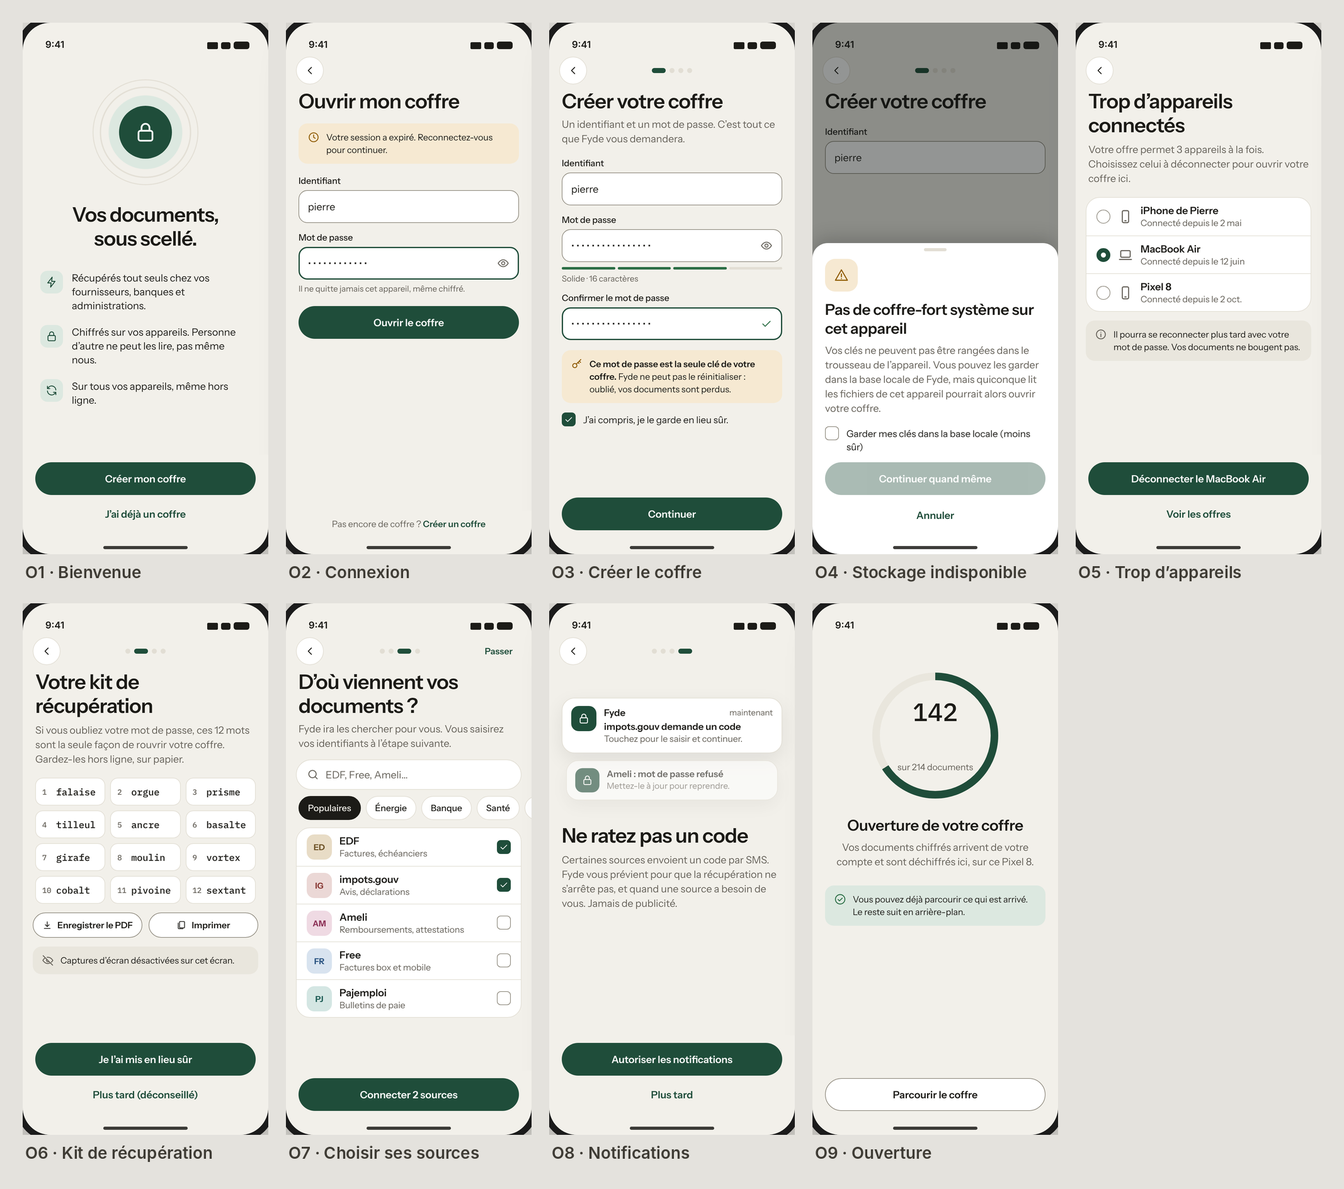
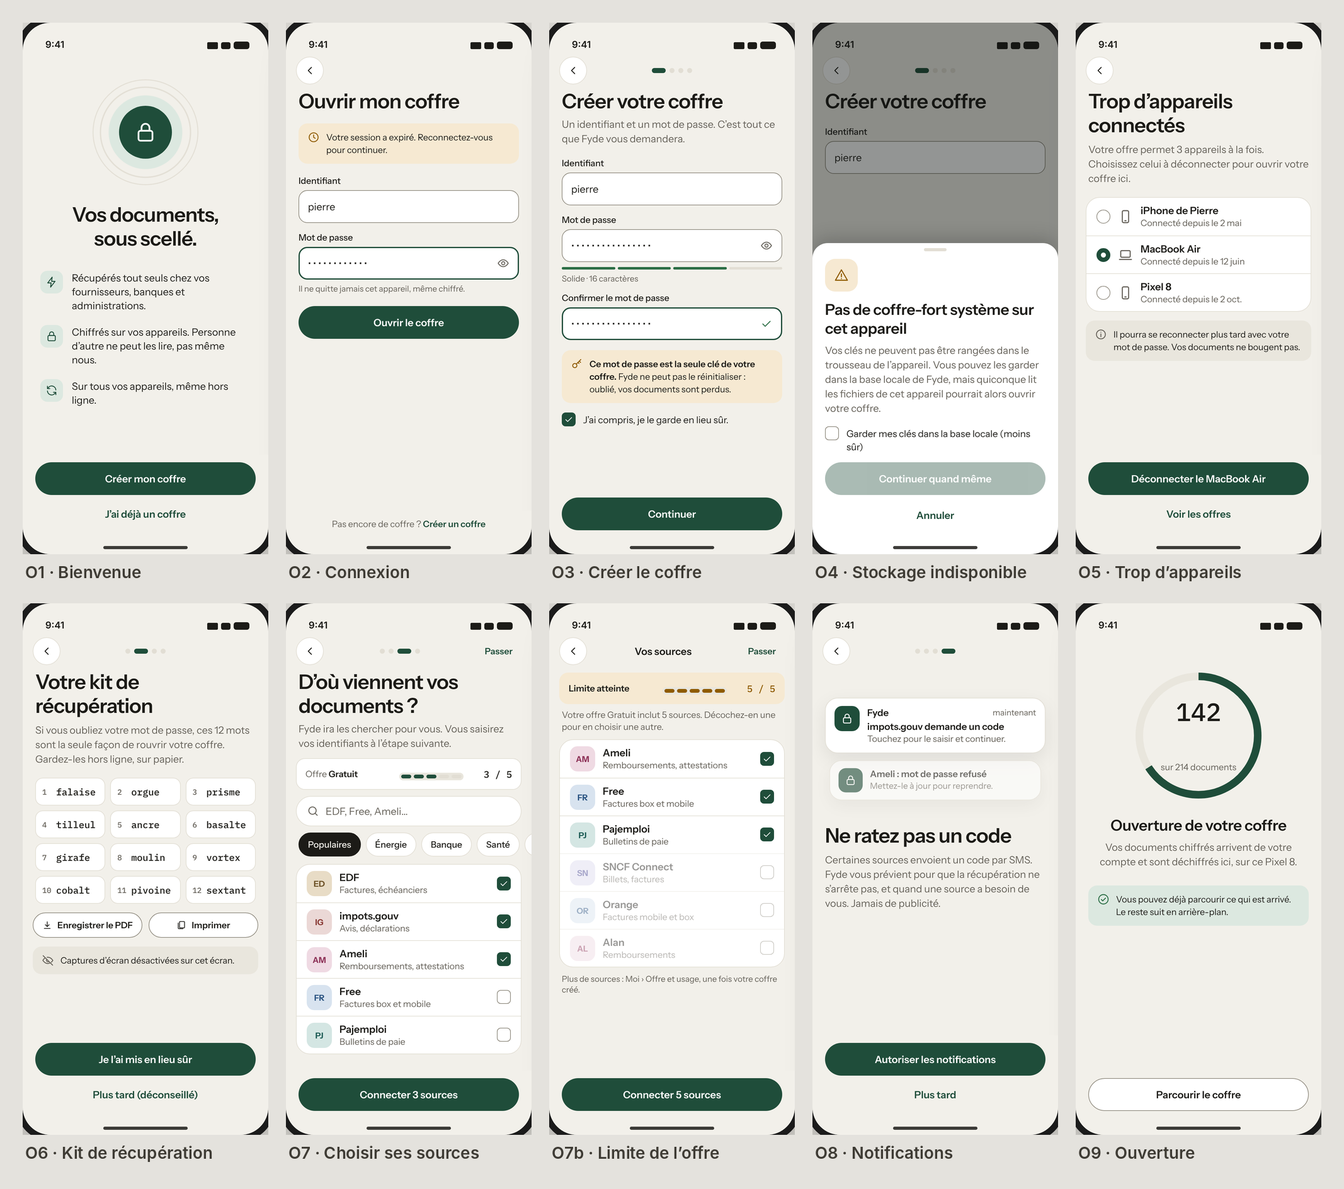
Limit source selection to the plan with a quota counter (O7b, DO7h)
The source picker (O7, DO7) shows a PlanQuota row: the plan, one segment
per allowed source and n / max, from getUsage (enabled_scripts + the
selection against max_scripts). At the limit it turns warning, unticked
sources dim and stop taking a tick, and a note explains how to swap or
upgrade later. On phones the counter stays pinned once the title scrolls
away (O7b). Documented as a pattern and component in the design system.

Claude-Session: https://claude.ai/code/session_01NXG1oymEkKvPrzTrPTtgGc

diff --git a/design/assets/mockups/desktop-auth.html b/design/assets/mockups/desktop-auth.html
@@ -251,10 +251,29 @@
  </div><p class="foot2"><svg class="ic sm"><use href="#i-lock"/></svg>Votre mot de passe ne quitte jamais cet ordinateur.</p></div><div class="pane"><button class="circ tl" aria-label="Retour"><svg class="ic"><use href="#i-chev-l"/></svg></button><p class="tr"><b style="color:var(--primary);font-weight:600">Passer</b></p><div class="form wide">
  <p class="h1">D’où viennent vos documents ?</p>
  <p class="body" style="color:var(--muted);margin-top:6px">Fyde ira les chercher pour vous. Vous saisirez vos identifiants à l’étape suivante.</p>
- <div class="search" style="margin:16px 0 0"><svg class="ic"><use href="#i-search"/></svg>EDF, Free, Ameli…</div>
+ <div style="margin-top:16px"><div class="quota" role="status" aria-label="3 sources choisies sur 5"><span class="q">Votre offre <b>Gratuit</b> inclut 5 sources</span><span class="seg" aria-hidden="true"><i class="on"></i><i class="on"></i><i class="on"></i><i></i><i></i></span><span class="n">3 / 5</span></div></div>
+ <div class="search" style="margin:12px 0 0"><svg class="ic"><use href="#i-search"/></svg>EDF, Free, Ameli…</div>
  <div class="chips" style="padding:12px 0 0"><span class="pc on">Populaires</span><span class="pc">Énergie</span><span class="pc">Banque</span><span class="pc">Santé</span><span class="pc">Impôts</span><span class="pc">Transport</span></div>
  <div class="srcgrid"><div class="srcc on"><span class="tile" style="--cbg:var(--c-home);--ci:var(--c-home-i)">ED</span><div class="grow"><p class="t1">EDF</p><p class="t2 trunc">Factures, échéanciers</p></div><span class="box on"><svg class="ic sm"><use href="#i-check"/></svg></span></div><div class="srcc on"><span class="tile" style="--cbg:var(--c-tax);--ci:var(--c-tax-i)">IG</span><div class="grow"><p class="t1">impots.gouv</p><p class="t2 trunc">Avis, déclarations</p></div><span class="box on"><svg class="ic sm"><use href="#i-check"/></svg></span></div><div class="srcc on"><span class="tile" style="--cbg:var(--c-health);--ci:var(--c-health-i)">AM</span><div class="grow"><p class="t1">Ameli</p><p class="t2 trunc">Remboursements, attestations</p></div><span class="box on"><svg class="ic sm"><use href="#i-check"/></svg></span></div><div class="srcc"><span class="tile" style="--cbg:var(--c-tel);--ci:var(--c-tel-i)">FR</span><div class="grow"><p class="t1">Free</p><p class="t2 trunc">Factures box et mobile</p></div><span class="box"></span></div><div class="srcc"><span class="tile" style="--cbg:var(--c-work);--ci:var(--c-work-i)">PJ</span><div class="grow"><p class="t1">Pajemploi</p><p class="t2 trunc">Bulletins de paie</p></div><span class="box"></span></div><div class="srcc"><span class="tile" style="--cbg:var(--c-trans);--ci:var(--c-trans-i)">SN</span><div class="grow"><p class="t1">SNCF Connect</p><p class="t2 trunc">Billets, factures</p></div><span class="box"></span></div><div class="srcc"><span class="tile" style="--cbg:var(--c-tel);--ci:var(--c-tel-i)">OR</span><div class="grow"><p class="t1">Orange</p><p class="t2 trunc">Factures mobile et box</p></div><span class="box"></span></div><div class="srcc"><span class="tile" style="--cbg:var(--c-health);--ci:var(--c-health-i)">AL</span><div class="grow"><p class="t1">Alan</p><p class="t2 trunc">Remboursements</p></div><span class="box"></span></div></div>
  <button class="pbtn f w" style="margin-top:20px">Connecter 3 sources</button>
+</div></div></div>
+</div></div>
+<div class="board"><p class="caption-board">DO7h · Limite de l’offre atteinte</p>
+<div class="desktop fyde" data-shot="DO7h-limite-offre">
+ <div class="chrome"><i style="background:#ee6a5f"></i><i style="background:#f5be4f"></i><i style="background:#62c554"></i><b>Fyde</b></div>
+ <div class="split"><div class="brand"><div class="logo"><span><svg class="ic sm"><use href="#i-lock"/></svg></span>Fyde</div><div class="mid">
+ <p class="btitle" style="margin-top:0">Créer votre coffre</p>
+ <p style="font:400 16px/23px var(--font);color:rgba(255,255,255,.8);margin-top:10px">Quatre étapes, environ trois minutes.</p>
+ <div class="steps"><div class="stp done"><span class="n"><svg class="ic sm"><use href="#i-check"/></svg></span><div><p>Votre compte</p><small>Identifiant et mot de passe</small></div></div><div class="stp done"><span class="n"><svg class="ic sm"><use href="#i-check"/></svg></span><div><p>Kit de récupération</p><small>12 mots, votre seule issue</small></div></div><div class="stp now"><span class="n">3</span><div><p>Vos sources</p><small>D’où viennent vos documents</small></div></div><div class="stp todo"><span class="n">4</span><div><p>Notifications</p><small>Pour ne rater aucun code</small></div></div></div>
+ </div><p class="foot2"><svg class="ic sm"><use href="#i-lock"/></svg>Votre mot de passe ne quitte jamais cet ordinateur.</p></div><div class="pane"><button class="circ tl" aria-label="Retour"><svg class="ic"><use href="#i-chev-l"/></svg></button><p class="tr"><b style="color:var(--primary);font-weight:600">Passer</b></p><div class="form wide">
+ <p class="h1">D’où viennent vos documents ?</p>
+ <p class="body" style="color:var(--muted);margin-top:6px">Fyde ira les chercher pour vous. Vous saisirez vos identifiants à l’étape suivante.</p>
+ <div style="margin-top:16px"><div class="quota full" role="status" aria-label="5 sources choisies sur 5"><span class="q"><b>Limite de l’offre Gratuit atteinte</b></span><span class="seg" aria-hidden="true"><i class="on"></i><i class="on"></i><i class="on"></i><i class="on"></i><i class="on"></i></span><span class="n">5 / 5</span></div></div>
+ <div class="search" style="margin:12px 0 0"><svg class="ic"><use href="#i-search"/></svg>EDF, Free, Ameli…</div>
+ <div class="chips" style="padding:12px 0 0"><span class="pc on">Populaires</span><span class="pc">Énergie</span><span class="pc">Banque</span><span class="pc">Santé</span><span class="pc">Impôts</span><span class="pc">Transport</span></div>
+ <div class="srcgrid"><div class="srcc on"><span class="tile" style="--cbg:var(--c-home);--ci:var(--c-home-i)">ED</span><div class="grow"><p class="t1">EDF</p><p class="t2 trunc">Factures, échéanciers</p></div><span class="box on"><svg class="ic sm"><use href="#i-check"/></svg></span></div><div class="srcc on"><span class="tile" style="--cbg:var(--c-tax);--ci:var(--c-tax-i)">IG</span><div class="grow"><p class="t1">impots.gouv</p><p class="t2 trunc">Avis, déclarations</p></div><span class="box on"><svg class="ic sm"><use href="#i-check"/></svg></span></div><div class="srcc on"><span class="tile" style="--cbg:var(--c-health);--ci:var(--c-health-i)">AM</span><div class="grow"><p class="t1">Ameli</p><p class="t2 trunc">Remboursements, attestations</p></div><span class="box on"><svg class="ic sm"><use href="#i-check"/></svg></span></div><div class="srcc on"><span class="tile" style="--cbg:var(--c-tel);--ci:var(--c-tel-i)">FR</span><div class="grow"><p class="t1">Free</p><p class="t2 trunc">Factures box et mobile</p></div><span class="box on"><svg class="ic sm"><use href="#i-check"/></svg></span></div><div class="srcc on"><span class="tile" style="--cbg:var(--c-work);--ci:var(--c-work-i)">PJ</span><div class="grow"><p class="t1">Pajemploi</p><p class="t2 trunc">Bulletins de paie</p></div><span class="box on"><svg class="ic sm"><use href="#i-check"/></svg></span></div><div class="srcc off" aria-disabled="true"><span class="tile" style="--cbg:var(--c-trans);--ci:var(--c-trans-i)">SN</span><div class="grow"><p class="t1">SNCF Connect</p><p class="t2 trunc">Billets, factures</p></div><span class="box"></span></div><div class="srcc off" aria-disabled="true"><span class="tile" style="--cbg:var(--c-tel);--ci:var(--c-tel-i)">OR</span><div class="grow"><p class="t1">Orange</p><p class="t2 trunc">Factures mobile et box</p></div><span class="box"></span></div><div class="srcc off" aria-disabled="true"><span class="tile" style="--cbg:var(--c-health);--ci:var(--c-health-i)">AL</span><div class="grow"><p class="t1">Alan</p><p class="t2 trunc">Remboursements</p></div><span class="box"></span></div></div>
+ <div class="note warn" style="margin:12px 0 0"><svg class="ic"><use href="#i-info"/></svg><span>Décochez une source pour en choisir une autre. Vous pourrez passer à une offre supérieure plus tard, depuis Moi › Offre et usage.</span></div>
+ <button class="pbtn f w" style="margin-top:16px">Connecter 5 sources</button>
 </div></div></div>
 </div></div>
 <div class="board"><p class="caption-board">DO8 · Notifications</p>

diff --git a/design/assets/mockups/onboarding.html b/design/assets/mockups/onboarding.html
@@ -116,16 +116,36 @@
  <div class="navb"><button class="circ"><svg class="ic"><use href="#i-chev-l"/></svg></button><div class="dots3"><i></i><i></i><i class="on"></i><i></i></div><button class="pbtn t sm">Passer</button></div>
  <p class="h1 pad">D’où viennent vos documents ?</p>
  <p class="body pad" style="color:var(--muted);margin-top:6px">Fyde ira les chercher pour vous. Vous saisirez vos identifiants à l’étape suivante.</p>
- <div class="search" style="margin-top:14px"><svg class="ic"><use href="#i-search"/></svg>EDF, Free, Ameli…</div>
+ <div style="margin:12px 16px 0"><div class="quota" role="status" aria-label="3 sources choisies sur 5"><span class="q">Offre <b>Gratuit</b></span><span class="seg" aria-hidden="true"><i class="on"></i><i class="on"></i><i class="on"></i><i></i><i></i></span><span class="n">3 / 5</span></div></div>
+ <div class="search" style="margin-top:10px"><svg class="ic"><use href="#i-search"/></svg>EDF, Free, Ameli…</div>
  <div class="chips"><span class="pc on">Populaires</span><span class="pc">Énergie</span><span class="pc">Banque</span><span class="pc">Santé</span><span class="pc">Impôts</span></div>
  <div class="group" style="margin-top:10px">
   <div class="it"><span class="tile" style="--cbg:var(--c-home);--ci:var(--c-home-i)">ED</span><div class="grow"><p class="t1">EDF</p><p class="t2">Factures, échéanciers</p></div><span class="box on"><svg class="ic sm"><use href="#i-check"/></svg></span></div>
   <div class="it"><span class="tile" style="--cbg:var(--c-tax);--ci:var(--c-tax-i)">IG</span><div class="grow"><p class="t1">impots.gouv</p><p class="t2">Avis, déclarations</p></div><span class="box on"><svg class="ic sm"><use href="#i-check"/></svg></span></div>
-  <div class="it"><span class="tile" style="--cbg:var(--c-health);--ci:var(--c-health-i)">AM</span><div class="grow"><p class="t1">Ameli</p><p class="t2">Remboursements, attestations</p></div><span class="box"></span></div>
+  <div class="it"><span class="tile" style="--cbg:var(--c-health);--ci:var(--c-health-i)">AM</span><div class="grow"><p class="t1">Ameli</p><p class="t2">Remboursements, attestations</p></div><span class="box on"><svg class="ic sm"><use href="#i-check"/></svg></span></div>
   <div class="it"><span class="tile" style="--cbg:var(--c-tel);--ci:var(--c-tel-i)">FR</span><div class="grow"><p class="t1">Free</p><p class="t2">Factures box et mobile</p></div><span class="box"></span></div>
   <div class="it"><span class="tile" style="--cbg:var(--c-work);--ci:var(--c-work-i)">PJ</span><div class="grow"><p class="t1">Pajemploi</p><p class="t2">Bulletins de paie</p></div><span class="box"></span></div>
  </div>
- <div class="foot"><button class="pbtn f w">Connecter 2 sources</button></div>
+ <div class="foot"><button class="pbtn f w">Connecter 3 sources</button></div>
+ <!--HB-->
+</div></div>
+
+<div class="board"><p class="caption-board">O7b · Limite de l’offre atteinte</p>
+<div class="phone fyde" data-shot="O7b-limite-offre">
+ <!--SB-->
+ <div class="navb"><button class="circ" aria-label="Retour"><svg class="ic"><use href="#i-chev-l"/></svg></button><span class="ttl">Vos sources</span><button class="pbtn t sm">Passer</button></div>
+ <div style="margin:4px 16px 0"><div class="quota full" role="status" aria-label="5 sources choisies sur 5"><span class="q"><b>Limite atteinte</b></span><span class="seg" aria-hidden="true"><i class="on"></i><i class="on"></i><i class="on"></i><i class="on"></i><i class="on"></i></span><span class="n">5 / 5</span></div></div>
+ <p class="t2" style="padding:8px 20px 10px">Votre offre Gratuit inclut 5 sources. Décochez-en une pour en choisir une autre.</p>
+ <div class="group">
+  <div class="it"><span class="tile" style="--cbg:var(--c-health);--ci:var(--c-health-i)">AM</span><div class="grow"><p class="t1">Ameli</p><p class="t2">Remboursements, attestations</p></div><span class="box on"><svg class="ic sm"><use href="#i-check"/></svg></span></div>
+  <div class="it"><span class="tile" style="--cbg:var(--c-tel);--ci:var(--c-tel-i)">FR</span><div class="grow"><p class="t1">Free</p><p class="t2">Factures box et mobile</p></div><span class="box on"><svg class="ic sm"><use href="#i-check"/></svg></span></div>
+  <div class="it"><span class="tile" style="--cbg:var(--c-work);--ci:var(--c-work-i)">PJ</span><div class="grow"><p class="t1">Pajemploi</p><p class="t2">Bulletins de paie</p></div><span class="box on"><svg class="ic sm"><use href="#i-check"/></svg></span></div>
+  <div class="it off" aria-disabled="true"><span class="tile" style="--cbg:var(--c-trans);--ci:var(--c-trans-i)">SN</span><div class="grow"><p class="t1">SNCF Connect</p><p class="t2">Billets, factures</p></div><span class="box"></span></div>
+  <div class="it off" aria-disabled="true"><span class="tile" style="--cbg:var(--c-tel);--ci:var(--c-tel-i)">OR</span><div class="grow"><p class="t1">Orange</p><p class="t2">Factures mobile et box</p></div><span class="box"></span></div>
+  <div class="it off" aria-disabled="true"><span class="tile" style="--cbg:var(--c-health);--ci:var(--c-health-i)">AL</span><div class="grow"><p class="t1">Alan</p><p class="t2">Remboursements</p></div><span class="box"></span></div>
+ </div>
+ <p class="t3" style="padding:10px 20px 0">Plus de sources : Moi › Offre et usage, une fois votre coffre créé.</p>
+ <div class="foot"><button class="pbtn f w">Connecter 5 sources</button></div>
  <!--HB-->
 </div></div>
 

diff --git a/design/assets/mockups/tokens.css b/design/assets/mockups/tokens.css
@@ -138,3 +138,16 @@
 .st.now .dot{border:2px solid var(--warn)}
 .st.idle{color:var(--muted)}
 .kbd{font:500 12px "Plex Mono";color:var(--muted);border:1px solid var(--border);border-radius:4px;padding:1px 6px;background:var(--bg)}
+
+/* plan quota counter (source picker) */
+.quota{display:flex;align-items:center;gap:12px;padding:10px 14px;border-radius:14px;background:var(--surface);border:1px solid var(--border)}
+.quota .q{flex:1;min-width:0;font:400 14px/19px var(--font);color:var(--muted)}
+.quota .q b{color:var(--text);font-weight:600}
+.quota .n{font:600 15px "Plex Mono";font-feature-settings:"tnum";white-space:nowrap}
+.quota .seg{display:flex;gap:4px;flex:none}
+.quota .seg i{width:16px;height:6px;border-radius:3px;background:var(--border)}
+.quota .seg i.on{background:var(--primary)}
+.quota.full{background:var(--warnwash);border-color:var(--warnwash)}
+.quota.full .seg i.on{background:var(--warn)}
+.quota.full .n{color:var(--warn)}
+.off{opacity:.45}

diff --git a/design/assets/mockups/sheets.py b/design/assets/mockups/sheets.py
@@ -17,7 +17,7 @@ OUT.mkdir(exist_ok=True)
 LABELS = {
     "O1": "Bienvenue", "O2": "Connexion", "O3": "Créer le coffre", "O4": "Stockage indisponible",
     "O5": "Trop d’appareils", "O6": "Kit de récupération", "O7": "Choisir ses sources", "O8": "Notifications",
-    "O9": "Ouverture", "V1": "Coffre", "V2": "Coffre en remplissage", "V3": "Catégorie", "V4": "Recherche",
+    "O7b": "Limite de l’offre", "O9": "Ouverture", "V1": "Coffre", "V2": "Coffre en remplissage", "V3": "Catégorie", "V4": "Recherche",
     "V5": "Résultats", "V6": "Document", "V7": "Lecteur", "V8": "Actions", "V9": "Reclasser",
     "V10": "Cartes par type", "V11": "Coffre sombre", "K1": "Scanner", "K2": "Vérifier le scan",
     "K3": "Depuis une autre app", "K4": "Ajout en cours", "R1": "Arrivées", "R2": "Tout est rangé",
@@ -30,7 +30,7 @@ LABELS = {
     "DO4b": "Trousseau absent (création)", "DO5": "Trop d’appareils", "DO6": "Kit de récupération",
     "DO7": "Choisir ses sources", "DO7b": "Connecter une source", "DO7c": "Récupération en cours",
     "DO7d": "Code reçu par SMS", "DO7e": "Code reçu par e-mail", "DO7f": "Mot de passe refusé",
-    "DO7g": "Sources connectées", "DO8": "Notifications", "DO9": "Ouverture",
+    "DO7g": "Sources connectées", "DO7h": "Limite de l’offre", "DO8": "Notifications", "DO9": "Ouverture",
     "D2": "Bureau — Document", "D3": "Bureau — Arrivées", "D4": "Bureau — Sources", "T1": "Tablette — Coffre",
 }
 GROUPS = {"onboarding": "O", "coffre": "V", "capture-arrivees": "KR", "sources": "S", "moi": "MX"}

diff --git a/design/design-system.md b/design/design-system.md
@@ -24,7 +24,7 @@ the old palette and type, with the reference's layout, copy and proportions):
 
 ## Reference screens
 
-Every screen of the app is drawn in `assets/screens/` (68 PNGs at 2×, phone frames at 390×844,
+Every screen of the app is drawn in `assets/screens/` (70 PNGs at 2×, phone frames at 390×844,
 desktop at 1440×900, tablet at 1194×834), rendered from the HTML in `assets/mockups/` by
 `render.py`; `sheets.py` assembles them into the contact sheets in `assets/sheets/`. To change a
 reference screen, edit its HTML (values come from `assets/mockups/tokens.css`, which mirrors the
@@ -296,6 +296,26 @@ Which one it is, and the masked destination, come from the scraper's question; u
 passes them as structured data (channel, destination, length), the card shows the question text
 as its title and a single field.
 
+### Plan quota
+
+`PlanQuota` shows how many of the plan's active sources a selection uses, wherever sources are
+picked (O7, DO7, S2). One row on `surface` with a `border` hairline: the plan in words, one
+segment per allowed source (16×6, `primary` when used, `border` otherwise), and "n / max" in
+Plex Mono. Screen readers hear "3 sources choisies sur 5"; the count is announced as it changes.
+
+- The count is the sources already active plus the ones ticked on the screen
+  (`Usage.enabled_scripts` + selection, against `Usage.max_scripts` from `getUsage`, read when the
+  screen opens). During onboarding no source is active yet, so it's the selection alone.
+- **At the limit** the row turns `warningWash` with its segments and count in `warning` and the
+  text "Limite de l'offre … atteinte". Unticked sources dim to 45% and stop taking a tick
+  (`aria-disabled`); ticked ones stay editable, so unticking one frees a slot at once. A note says
+  how to swap and where to change plan. Fyde never blocks the button: the selection is always
+  within the plan.
+- On phones the row is pinned under the bar once the title scrolls away (O7b); its text shortens
+  to "Offre Gratuit" / "Limite atteinte".
+- A plan with no source limit hides the counter. If `getUsage` fails, the counter is hidden and
+  the server's own refusal (`install_script`) is shown on that source's connect step instead.
+
 ### Document pass
 
 The detail of a document is a pass in its category colours: issuer and type, a headline value
@@ -345,7 +365,8 @@ subcategories of the chosen category only, type chips.
 | O4 | Stockage indisponible | Sheet: explanation, opt-in checkbox, Continuer quand même (enabled once checked) | On `SecureStorageUnavailable`; retries with `allowInsecureStorage` |
 | O5 | Trop d'appareils | Plan limit, radio list of open sessions, "Déconnecter le MacBook Air" | Re-runs login with `replaceSessionId`; credentials kept only while open |
 | O6 | Kit de récupération | Step 2/4; 12 words; Enregistrer le PDF / Imprimer; Je l'ai mis en lieu sûr / Plus tard | Screenshots blocked. Confirm asks two words back |
-| O7 | Choisir ses sources | Step 3/4; search, category chips, popular public scrapers with checkboxes | Each pick opens S3, then its first run (S4), in turn, inside onboarding; a code asked during that run opens the code sheet there |
+| O7 | Choisir ses sources | Step 3/4; plan counter "Offre Gratuit · 3 / 5"; search, category chips, popular public scrapers with checkboxes | Each pick opens S3, then its first run (S4), in turn, inside onboarding; a code asked during that run opens the code sheet there |
+| O7b | Limite de l'offre atteinte | O7 scrolled: the counter stays pinned under the bar, in `warning`, "Limite atteinte"; one line on unticking to swap; unticked sources dimmed and not tickable; pointer to Moi › Offre et usage | See [Plan quota](#plan-quota) |
 | O8 | Notifications | Step 4/4; sample notifications; Autoriser / Plus tard | OS prompt only after the tap |
 | O9 | Ouverture | Ring "142 sur 214", the device's name, "Vous pouvez déjà parcourir" | Replaces an empty vault on a new device |
 
@@ -437,7 +458,8 @@ Same flows, content and SDK calls as O1–O9; layout in
 | DO4b | Trousseau absent (création) | Same dialog over DO3, ticked: "Créer quand même" enabled | Same |
 | DO5 | Trop d'appareils | As O5; Voir les offres · Déconnecter le MacBook Air | — |
 | DO6 | Kit de récupération | Step 2 of 4: 12 words in 4×3, Enregistrer le PDF / Imprimer, note that the words are never copied or sent | No copy to clipboard on desktop |
-| DO7 | Choisir ses sources | Step 3 of 4: search, category chips, 2-column source cards (selected = 2dp `primary` border + ticked box), Connecter n sources; Passer at the top right | — |
+| DO7 | Choisir ses sources | Step 3 of 4: plan counter ("Votre offre Gratuit inclut 5 sources", 3 / 5), search, category chips, 2-column source cards (selected = 2dp `primary` border + ticked box), Connecter n sources; Passer at the top right | — |
+| DO7h | Limite de l'offre atteinte | Counter in `warning` ("Limite de l'offre Gratuit atteinte", 5 / 5); unticked cards dimmed and not tickable; warning note on unticking to swap and upgrading later from Moi › Offre et usage | See [Plan quota](#plan-quota) |
 | DO7b | Connecter une source | "Source 1 sur 3"; the source's tile and what it fetches; info note naming the only sites Fyde will contact (`allowedDomains`); one field per script parameter (here e-mail and password, with "Celui de votre espace client EDF, pas celui de Fyde."); ok note "Chiffrés avec votre coffre"; Récupérer automatiquement; Connecter EDF; "Passer cette source" at the top right. The brand panel lists the ticked sources under step 3 with their state | Connect installs the script and starts its first run |
 | DO7c | Récupération en cours | Run stepper (Connexion → Recherche → Téléchargement i / n → Rangement) in a card; note that the run goes on in the background and Fyde will say if a code is asked; Attendre ici / Source suivante | Moving on doesn't stop the run; its state stays in the brand panel |
 | DO7d | Code reçu par SMS | "impots.gouv demande un code"; code card (SMS, masked number, six boxes, step trail); "Collez le code ou tapez-le : il est envoyé dès le 6ᵉ chiffre."; Annuler / Valider | Valider stays disabled until 6 digits; wrong code → field error with the provider's wording, boxes emptied |
@@ -479,6 +501,7 @@ Screens compose `App*` components and never style a raw Material 3 component. Ta
 | `ArrivalsBanner`, `ClassificationSuggestion` | New | — |
 | `OneTimeCodeField` | New | See [Verification code](#verification-code) |
 | `SourceRow`, `SourceStatus`, `RunStepper` | New | See [Source status](#source-status) |
+| `PlanQuota` | New | See [Plan quota](#plan-quota) |
 | `SealHero` | Landed (O1) | `primary` disc and lock, `primaryWash` disc, two `border` rings at 168 (`AppDimensions.sealHero`); reused by M2 |
 | `DeviceTile`, `UsageMeter` | New / restyle | — |
 | `AppIconTile` | Restyle | 44 default; 36 (`AppDimensions.iconTileSmall`) beside body text, as in O1's promises; 52 (`iconTileLarge`) heading a sheet, as in O4 |
